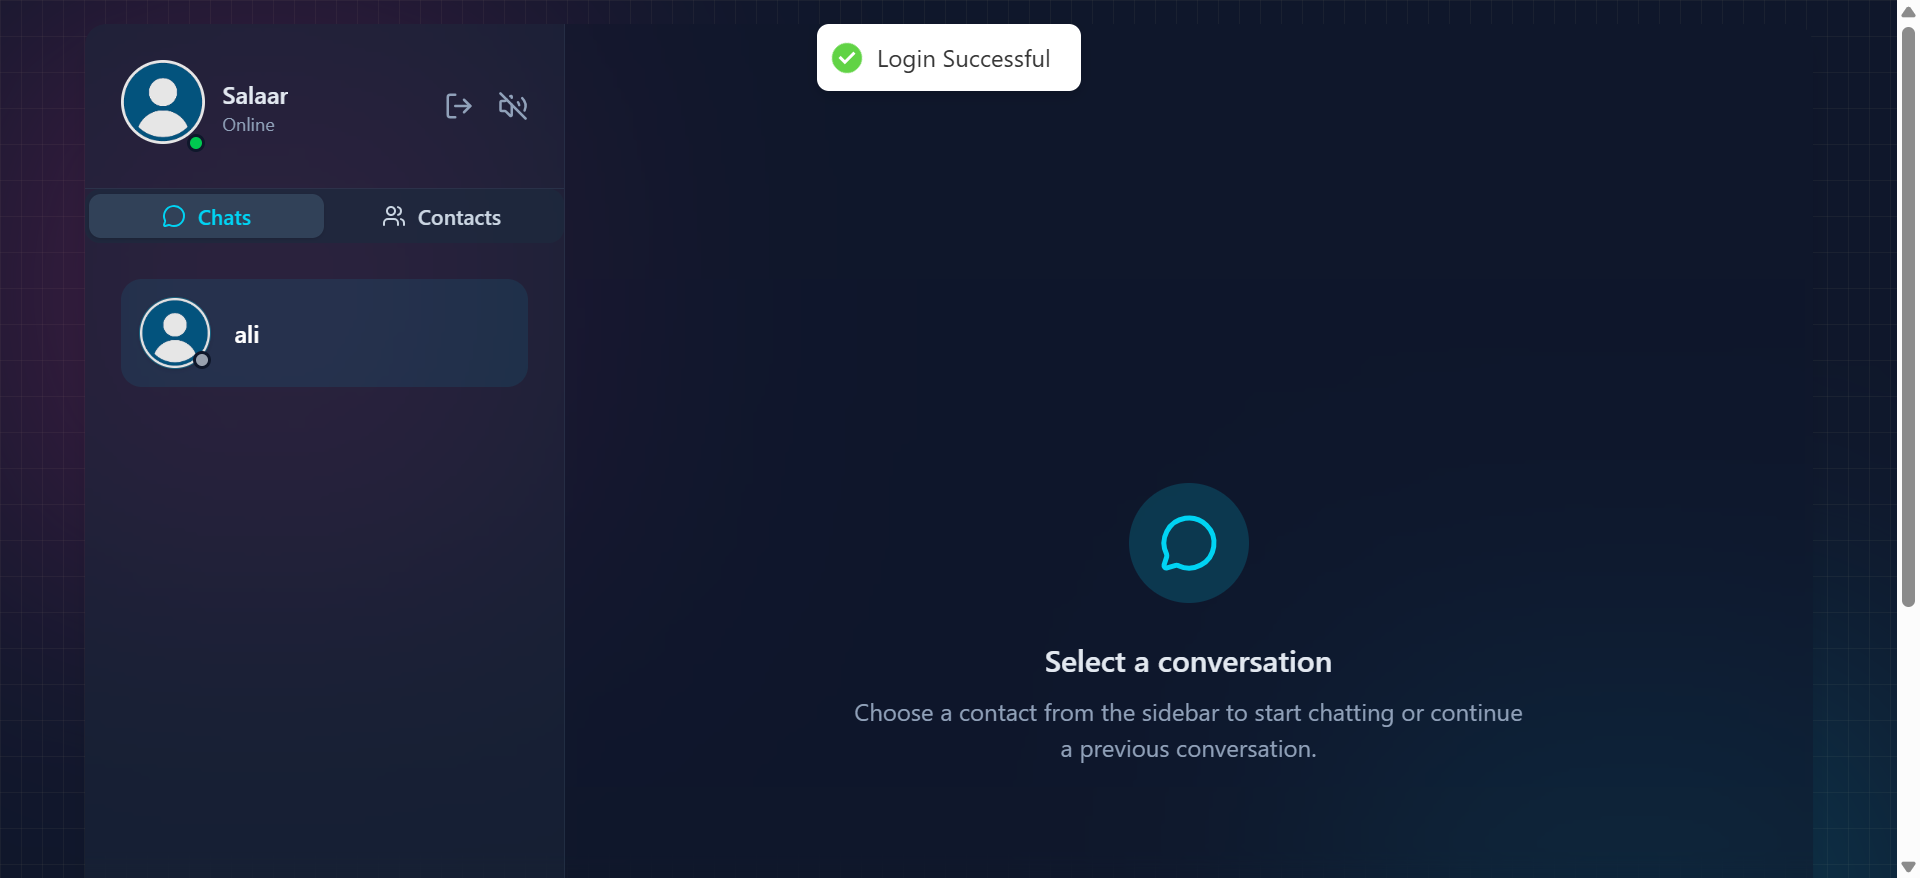
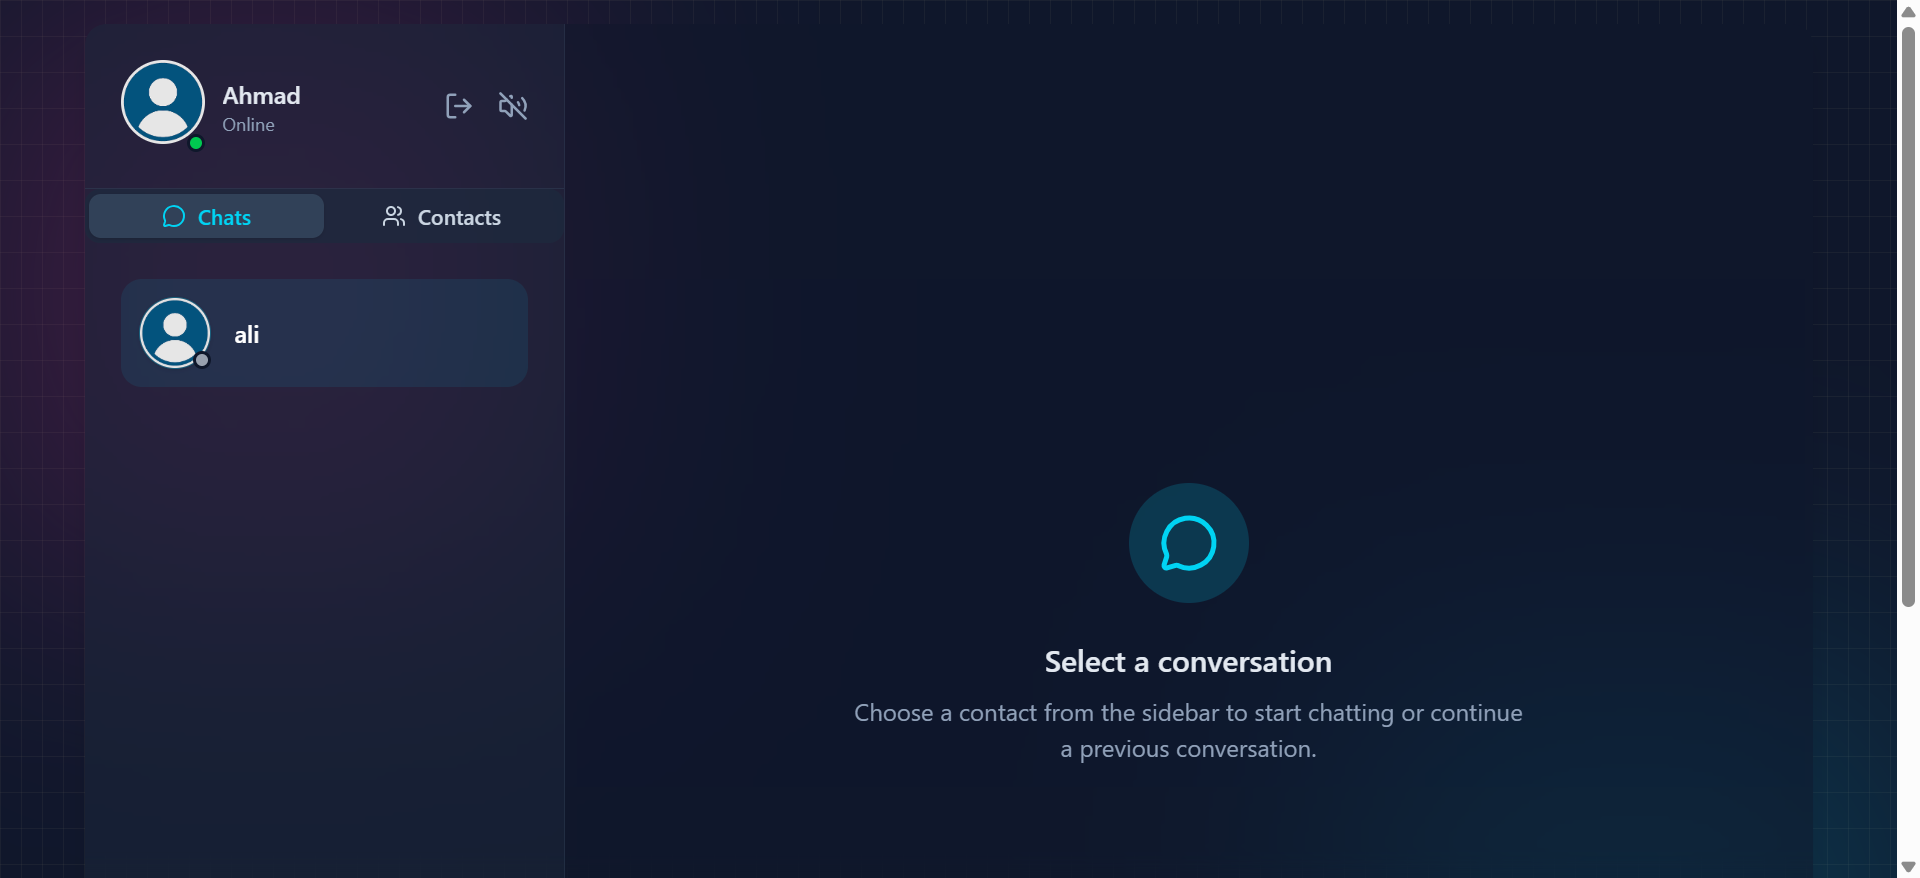
ui issue solved

Changed region(s): [[0.4062, 0.0, 0.5625, 0.123], [0.0938, 0.0923, 0.1562, 0.123]]

diff --git a/Frontend/src/App.jsx b/Frontend/src/App.jsx
@@ -16,10 +16,10 @@ function App() {
 
   if(isChekingAuth){
     return <PageLoader />
-  }
+  } 
 
   return (
-    <div className="min-h-screen bg-slate-900 relative flex items-center justify-center p-4 overflow-hidden">
+   <div className="h-screen bg-slate-900 relative flex items-center justify-center p-4 overflow-hidden">
       {/* DECORATORS - GRID BG & GLOW SHAPES */}
       <div className="absolute inset-0 bg-[linear-gradient(to_right,#4f4f4f2e_1px,transparent_1px),linear-gradient(to_bottom,#4f4f4f2e_1px,transparent_1px)] bg-[size:14px_24px]" />
       <div className="absolute top-0 -left-4 size-96 bg-pink-500 opacity-20 blur-[100px]" />

diff --git a/Frontend/src/pages/Login.jsx b/Frontend/src/pages/Login.jsx
@@ -14,7 +14,7 @@ function LoginPage() {
 
   return (
     <div className="w-full flex items-center justify-center p-4 bg-slate-900">
-      <div className="relative w-full max-w-6xl md:h-[800px] h-[650px]">
+      <div className="relative w-full max-w-6xl h-[calc(100vh-2rem)]">
           <div className="w-full flex flex-col md:flex-row">
             {/* FORM CLOUMN - LEFT SIDE */}
             <div className="md:w-1/2 p-8 flex items-center justify-center md:border-r border-slate-600/30">

diff --git a/Frontend/src/pages/Signup.jsx b/Frontend/src/pages/Signup.jsx
@@ -34,7 +34,7 @@ function SignUpPage() {
 
   return (
     <div className="w-full flex items-center justify-center p-4 bg-slate-900">
-      <div className="relative w-full max-w-6xl md:h-[800px] h-[650px]">
+      <div className="relative w-full max-w-6xl h-[calc(100vh-2rem)]">
         <div className="w-full flex flex-col md:flex-row">
           {/* FORM CLOUMN - LEFT SIDE */}
           <div className="md:w-1/2 p-8 flex items-center justify-center md:border-r border-slate-600/30">

diff --git a/Frontend/src/pages/ChatPage.jsx b/Frontend/src/pages/ChatPage.jsx
@@ -13,7 +13,7 @@ function ChatPage() {
 
   return (
     
-    <div className="relative w-full max-w-6xl h-[800px] flex rounded-xl overflow-hidden shadow-lg">
+    <div className="relative w-full max-w-6xl h-[calc(100vh-2rem)] flex rounded-xl overflow-hidden shadow-lg">
       {/* LEFT SIDE */}
       <div className="w-80 bg-slate-800/50 backdrop-blur-sm flex flex-col border-r border-slate-700/40">
         <ProfileHeader />

diff --git a/baatcheet_selenium_test.py b/baatcheet_selenium_test.py
@@ -28,10 +28,10 @@ wait = WebDriverWait(driver, 10)  # 10 second wait for elements
 
 # ---------------- Test Case 1: Login ----------------
 email_input = wait.until(EC.presence_of_element_located((By.CSS_SELECTOR, "input[type='email']")))
-email_input.send_keys("salaar@gmail.com")
+email_input.send_keys("ahmad@gmail.com")
 
 password_input = driver.find_element(By.CSS_SELECTOR, "input[type='password']")
-password_input.send_keys("123456")
+password_input.send_keys("Salaar@12345")
 
 login_button = driver.find_element(By.CSS_SELECTOR, "button.auth-btn")
 login_button.click()
